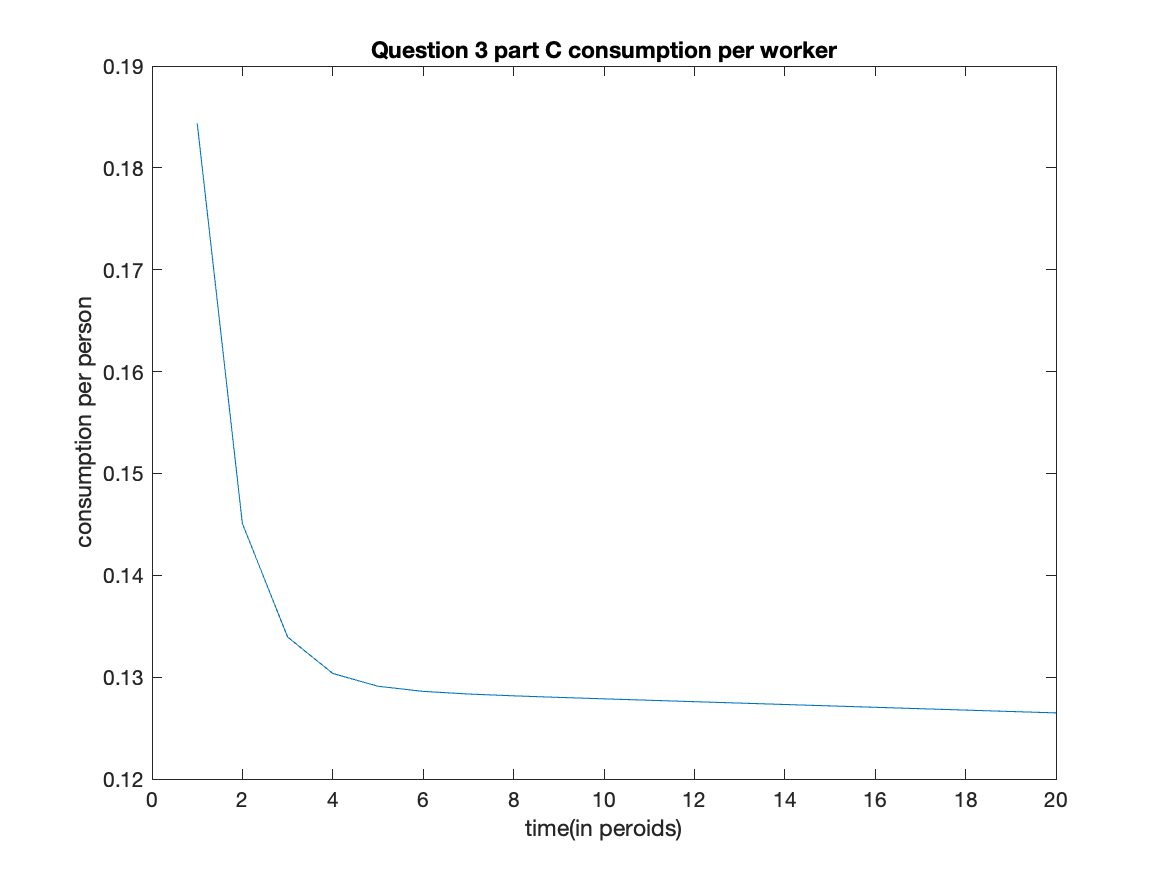
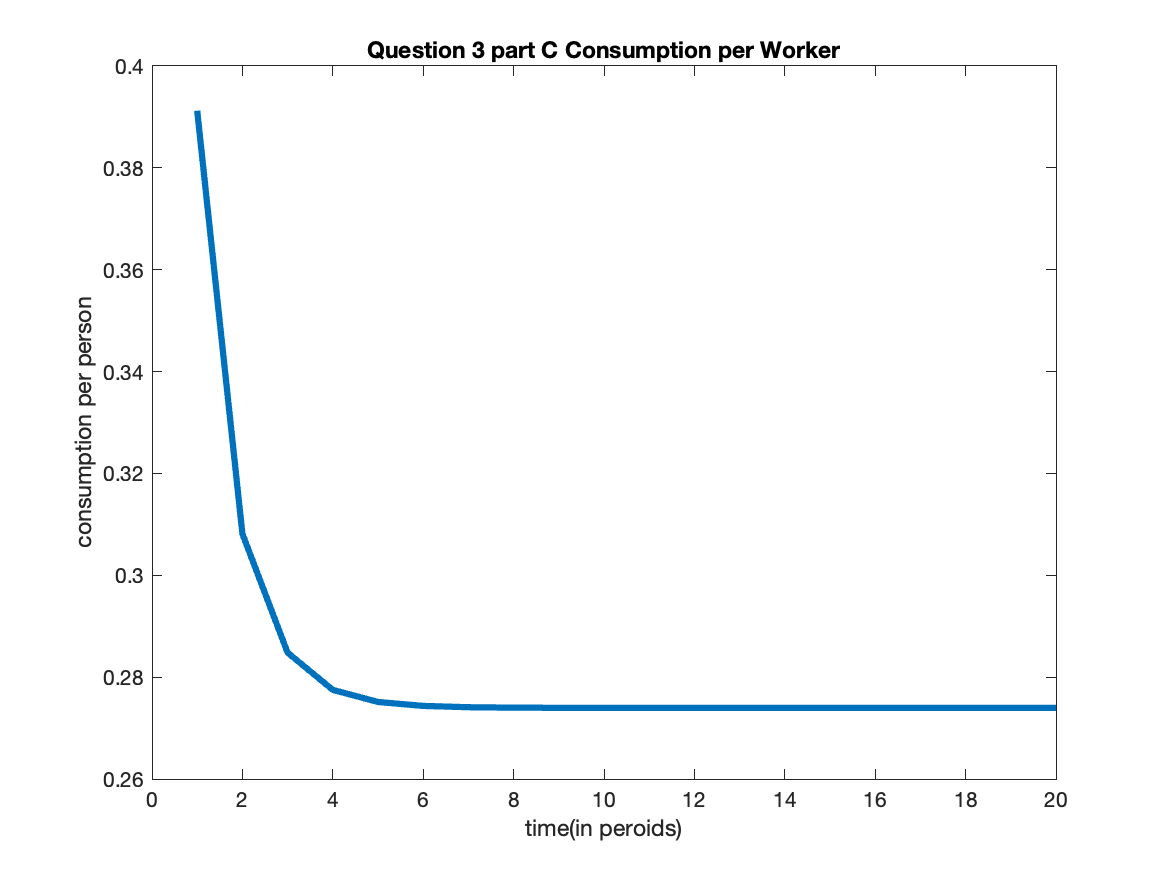
fixing mistake on Q3

diff --git a/HW2/Q3.m b/HW2/Q3.m
@@ -28,7 +28,7 @@ capital=[capital_0];
 consumption=[];
 peroid = [1:1:20];
 for i =peroid
-    current_peroid_output = (capital(end)^theta*Labor(end)^(1-theta))/Labor(end);
+    current_peroid_output = ((capital(end)*Labor(end))^theta*Labor(end)^(1-theta))/Labor(end);
     output = [output; current_peroid_output];
     current_peroid_consumption = cons*output(end)^theta;
     consumption = [consumption; current_peroid_consumption];
@@ -39,16 +39,16 @@ for i =peroid
 end
 
 clf;
-plot(peroid,output)
+plot(peroid,output,'LineWidth',3)
 ylabel('output per person')
 xlabel('time(in peroids)')
-title("Question 3 part C output per worker")
+title("Question 3 part C output per Worker")
 saveas(gcf,'pics/HW1_Q3_c_output.png')
 
 
 clf
-plot(peroid,consumption)
+plot(peroid,consumption,'LineWidth',3)
 ylabel('consumption per person')
 xlabel('time(in peroids)')
-title("Question 3 part C consumption per worker")
+title("Question 3 part C Consumption per Worker")
 saveas(gcf,'pics/HW1_Q3_c_consumption.png')
